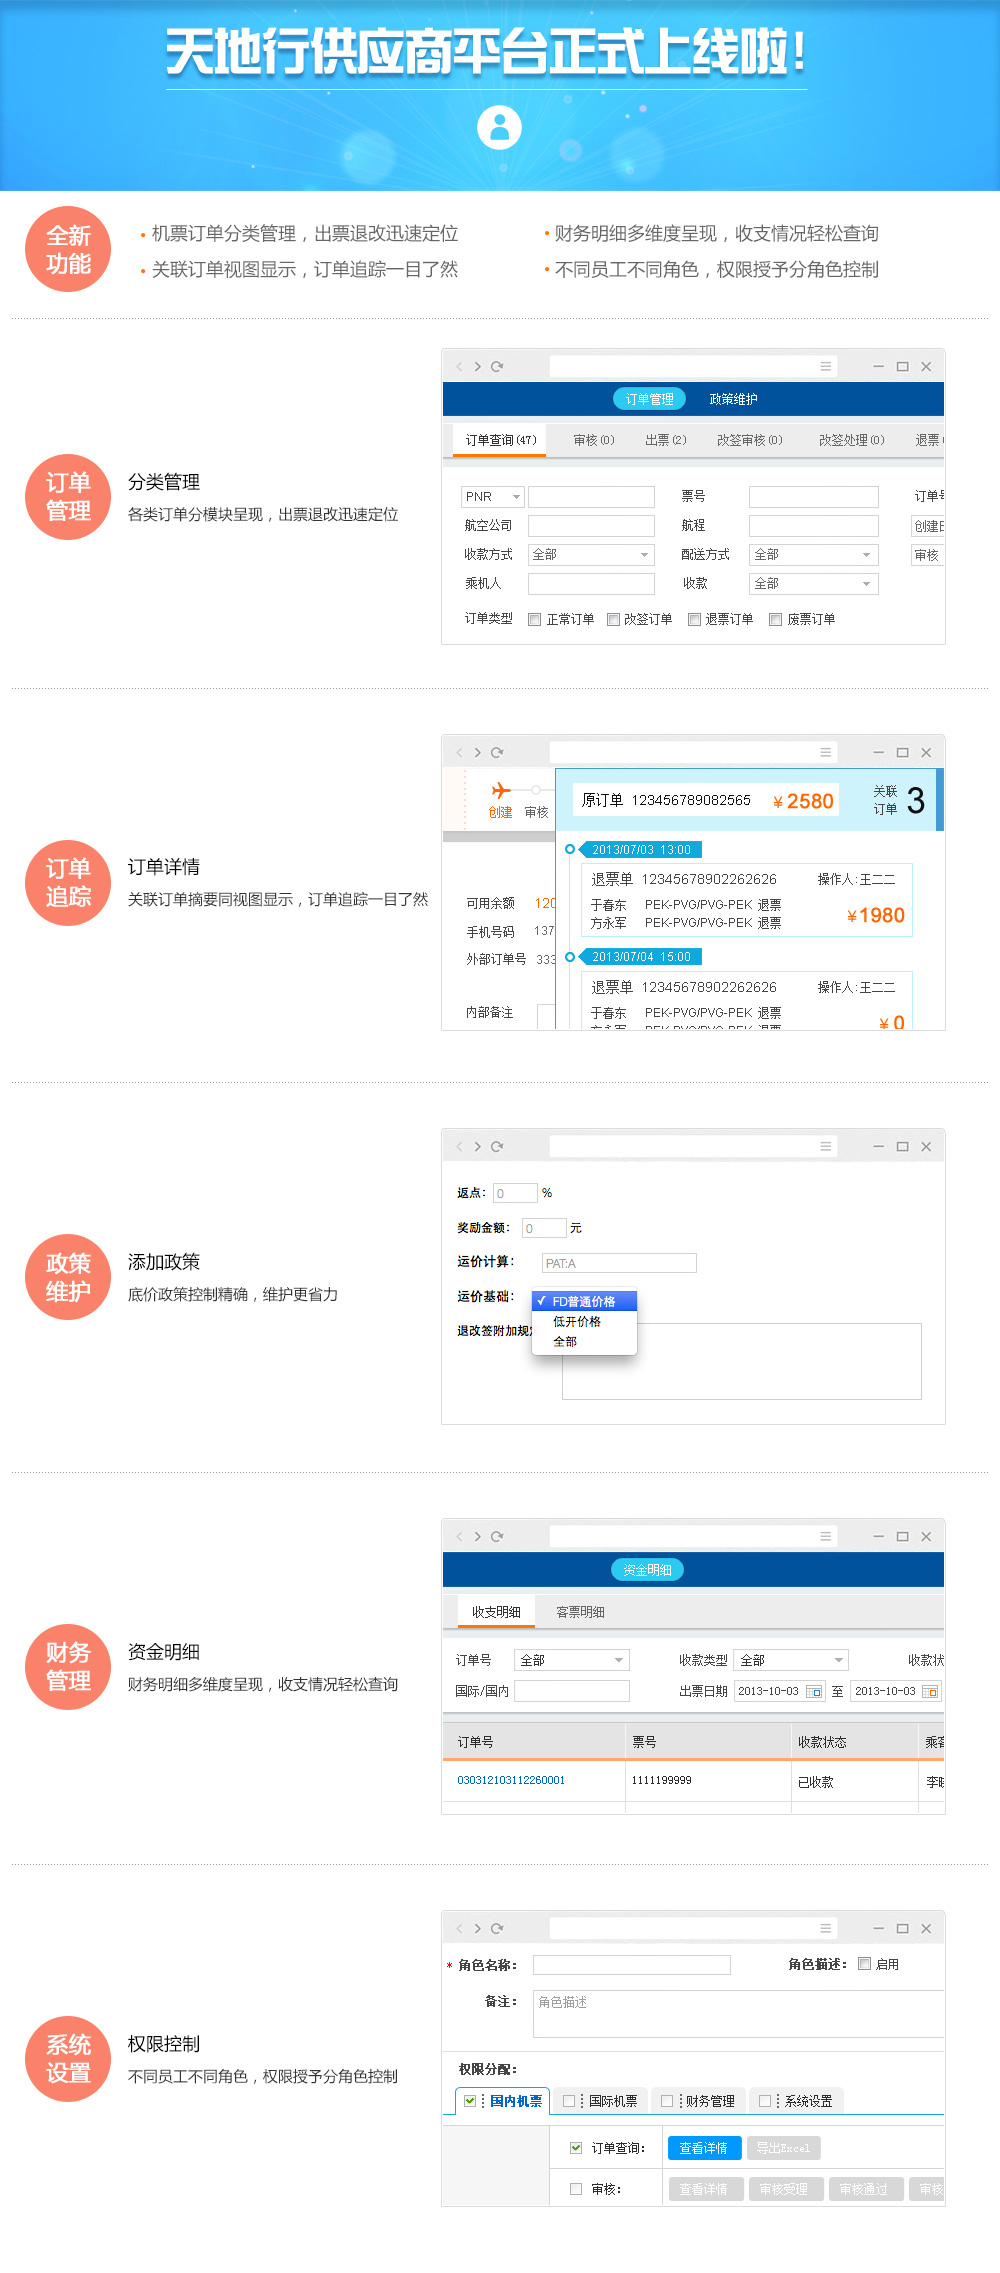
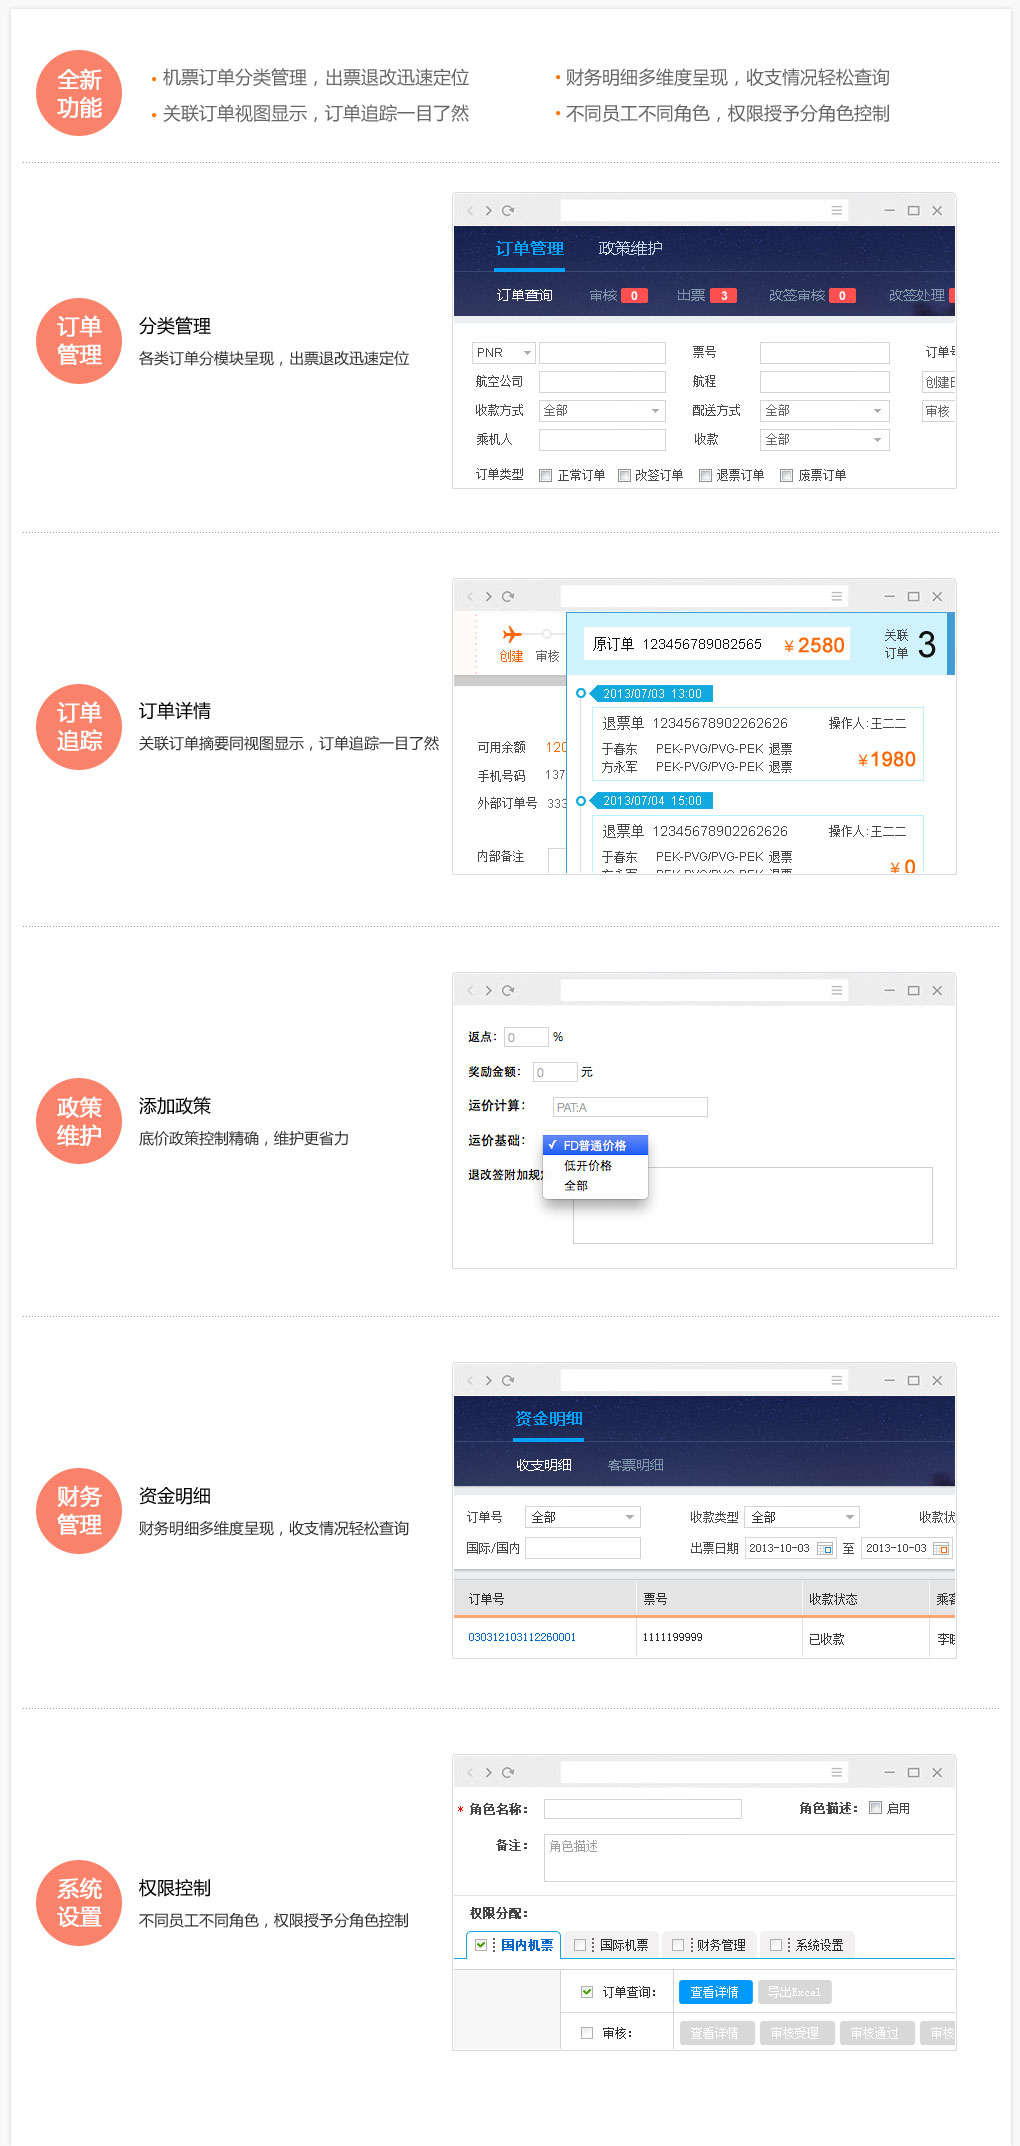
修改供应商欢迎页

diff --git a/供应商/欢迎页.html b/供应商/欢迎页.html
@@ -8,6 +8,10 @@
 	<link href="../static/css/kendo.gray.css" rel="stylesheet" />
 	<link href="../static/css/supplier.css" rel="stylesheet" />
     <link href="../static/css/kendo.reset.css" rel="stylesheet" />
+
+    <link rel="stylesheet" type="text/css" href="../static/css/supplier_common.css">
+    <link rel="stylesheet" type="text/css" href="../static/css/supplierTravel.css">
+
     <script type="text/javascript" src="../static/js/jquery.min.js"></script>
     <script type="text/javascript" src="../static/js/kendo.web.js"></script>
     <script type="text/javascript" src="../static/js/header.js"></script>
@@ -20,123 +24,44 @@
 <!-- @CLB@ -->
 </head>
 <body>
-    <div id="extHeader">
-        <div></div>
+    <div class="bg-header-repeat">
+        <div class="bg-header-top"></div>
+        <div class="main-header"></div>
     </div>
 
-    <div id="container">
-        <div class="header clearfix">
-            <h1></h1>
-            <div class="profile">
-                <span>你好,${name}</span>
-                <a href="javascript:void(0);">退出</a>
+    <div id="container" class="new-container">
+        <div class="header-top-center">
+            <div class="head-left">
+                <div class="supplier-logo"></div>
             </div>
-            <ul id="top_menu">
-                <li class="current">
-                    <a href="javascript:void(0);">国内机票</a>
-                    <ol class="sub_menu gnjp" style="display:block;">
-                        <li><a href="javascript:void(0);">平台建单</a></li>
-                        <li><a href="javascript:void(0);">订单管理</a></li>
-                        <li><a href="javascript:void(0);">政策维护</a></li>
-                        <li><a href="javascript:void(0);">售价维护</a></li>
-                        <li><a href="javascript:void(0);">数据报表</a></li>
-                    </ol>
+            <ul class="first-navi">
+                <li class="first-navi-li"><a href="javascript:void(0);">国内机票</a></li>
+                <li class="first-navi-li"><a href="javascript:void(0);">国际机票</a></li>
+                <li class="first-navi-li" style="width:80px;"><a href="javascript:void(0);">旅游</a>
                 </li>
-                <li>
-                    <a href="javascript:void(0);">国际机票</a>
-                    <ol class="sub_menu gjjp">
-                        <li><a href="javascript:void(0);">平台建单</a></li>
-                        <li><a href="javascript:void(0);">订单管理</a></li>
-                        <li><a href="javascript:void(0);">政策维护</a></li>
-                        <li><a href="javascript:void(0);">售价维护</a></li>
-                        <li><a href="javascript:void(0);">数据报表</a></li>
-                    </ol>
-                </li>
-                <!--
-                <li>
-                    <a href="javascript:void(0);">酒店</a>
-                    <ol class="sub_menu jd">
-                        <li><a href="javascript:void(0);">查询预订</a></li>
-                        <li><a href="javascript:void(0);">订单管理</a></li>
-                        <li><a href="javascript:void(0);">酒店维护</a></li>
-                        <li><a href="javascript:void(0);">售价维护</a></li>
-                        <li><a href="javascript:void(0);">数据报表</a></li>
-                    </ol>
-                </li>
-                -->
-                <li>
-                    <a href="javascript:void(0);">财务管理</a>
-                    <ol class="sub_menu caiwu">
-                        <li><a href="javascript:void(0);">财务管理</a></li>
-                        <li><a href="javascript:void(0);">收银管理</a></li>
-                        <li><a href="javascript:void(0);">对账管理</a></li>
-                        <li><a href="javascript:void(0);">财务报表</a></li>
-                    </ol>
-                </li>
-                <li>
-                    <a href="javascript:void(0);">系统设置</a>
-                    <ol class="sub_menu system">
-                        <li><a href="javascript:void(0);">公告管理</a></li>
-                        <li><a href="javascript:void(0);">公司信息</a></li>
-                        <li><a href="javascript:void(0);">组织架构</a></li>
-                        <li><a href="javascript:void(0);">角色维护</a></li>
-                        <li><a href="javascript:void(0);">基础数据</a></li>
-                    </ol>
-                </li>
-                <div class="clear"></div>
+                <li class="first-navi-li"><a href="javascript:void(0);">财务管理</a></li>
             </ul>
-            
-            <div id="message">
-                <h3>
-                    <span>&nbsp;</span>
-                    <!--<a href="javascript:void(0);">消息</a>-->
-                    <em>10</em>
-                </h3>
-                <div id="message_pop">
-                    <div class="pop_head"></div>
-                    <div class="mesbox">
-                       <div class="switchover clearfix">
-                            <ul class="mesAndnotice">
-                                <li class="current_stateli"><a href="javascript:void(0);">消息</a></li>
-                                <li class="notice_li"><a href="javascript:void(0);">公告</a><em>&nbsp;</em></li>
-                            </ul>
-                            <div class="ck"><a href="javascript:void(0);">关闭</a></div>
-                        </div>
-                        <div class="mes_switchover">
-                                <ul class="show_content mes">
-                                    <li><a href="javascript:void(0);">[ 国际机票 ] 订单 <span>[ 1123432211111 ]</span> 出票退回，[ 退票原因 ]，请尽快处理</a></li>
-                                    <li><a href="javascript:void(0);">[ 国际机票 ] 订单 <span>[ 1123432211111 ]</span> 出票退回，[ 退票原因 ]，请尽快处理</a></li>
-                                    <li><a href="javascript:void(0);">[ 国际机票 ] 订单 <span>[ 1123432211111 ]</span> 出票退回，[ 退票原因 ]，请尽快处理</a></li>
-                                    <li class="last"><a href="javascript:void(0);">[ 国际机票 ] 订单 <span>[ 1123432211111 ]</span> 出票退回，[ 退票原因 ]，请尽快处理</a></li>
-                                    <!--<li>暂无最新消息!</li>-->
-                                </ul>
-                                <ul class="notice_content mes" style="display:none;">
-                                    <li><a href="javascript:void(0);"><i>&nbsp;</i><b>[ 国内机票 ] 新系统上线</b></a><em>2013-12-06</em></li>
-                                    <li><a href="javascript:void(0);">[ 国际机票 ] 新系统上线</a><em>2013-12-06</em></li>
-                                    <li><a href="javascript:void(0);">[ 酒店 ] 新系统上线 新系统上线新系统上线新系统上线新系统上线新系统</a><em>2013-12-06</em></li><!--
-                                    <li><a href="javascript:void(0);">新系统上线</a><em>2013-12-06</em></li>
-                                    <li><a href="javascript:void(0);">[ 客户管理 ] 功能修改国际机票新系统上线</a><em>2013-12-06</em></li>
-                                    <li><a href="javascript:void(0);">[ 酒店 ] 新系统上线</a><em>2013-12-06</em></li>-->
-                                    <li class="last"><a href="javascript:void(0);">新系统上线</a><em>2013-12-06</em></li>
-                                </ul>
-                        </div>
-                        <div class="see_all clearfix"><a href="javascript:void(0);">查看全部</a></div>
-                    </div>
-                    <div class="pop_tail"></div>
-                </div>
-            </div>
-        </div> 
-            
-        <div id="sub_menu_bar"></div>
-        <div id="mainContent">
-            <div class="supplier_welcome_block">
-                <div class="supplier_user">你好，魏琦</div>
-            </div>
-
+            <div class="head-right">
+                <ul class="feature">
+                    <li class="notice-icon-active"></li>
+                    <li class="split-line"></li>
+                    <li class="person-info">
+                        <span class="person-icon"></span>
+                        <span class="person-name" title="zhaoshuaigeng12312321">zhaoshuaigeng12312321</span>
+                        <a class="logout" href="javascript:void(0);">退出</a>
+                    </li>
+                    <li class="user-setting">设置</li>
+                </ul>
+            </div>            
         </div>
-
+        <div class="clear"></div>
+        <div id="sub_menu_bar"></div>
+        <div id="mainContent" class="welcome-mainContent">
+            <div class="supplier_user"><i></i>Hello, World!</div>
+            <div class="supplier_welcome_block">               
+            </div>
+        </div>
     </div>
-		
     <div id="extFooter">
         <div>
             <p>

diff --git a/static/css/supplier.css b/static/css/supplier.css
@@ -548,7 +548,7 @@ table.cv-fixed input[type=text],table.cv-fixed textarea{
     padding-top:10px;
     margin-bottom:40px;
 }
-body {background-color: #EAEEF0;min-width:980px;}
+body {background-color: #f9f9f9;min-width:980px;}
 a {text-decoration:none; color:#606060;}
 input[type=text],input[type=password],.cm_txt {border:1px solid #cfcfcf;height:20px;line-height:20px\9;}
 textarea{border:1px solid #cfcfcf;}
@@ -1488,18 +1488,35 @@ input[type=checkbox] {vertical-align:middle;}
     color: #0065CB;
 }
 /*供应商 欢迎页*/
+.welcome-mainContent {
+    width: 980px;
+    position: relative;
+    top: 100px;
+    margin-bottom: 0!important;
+}
+
 .supplier_welcome_block {
     position: relative;
-    height: 2273px;
-    background: #fff url(../images/supplier_welcome.jpg) no-repeat;
+    height: 2146px;
+    background: #f9f9f9 url(../images/supplier_welcome.jpg) no-repeat;
 }
 .supplier_user {
     color: #fff;
     position: absolute;
-    left: 450px;
-    top: 158px;
-    font: 20px 'Microsoft Yahei',sans-serif;
+    left: 425px;
+    top: -65px;
+    font: 25px 'Microsoft Yahei',sans-serif;
 }
+.supplier_user i{
+    display: inline-block;
+    background: url(../images/supplier/supplier_user_icon.png) no-repeat 0 0;
+    width: 35px;
+    height: 35px;
+    position: relative;
+    top: 8px;
+    right: 15px;
+}
+
 
 /* 通用button*/
 .supplierButton{display:inline-block;vertical-align:middle; cursor:pointer;}

diff --git a/供应商/旅游/线路管理/线路管理.html b/供应商/旅游/线路管理/线路管理.html
@@ -87,7 +87,7 @@
                         <li class="second-navi-li"><a href="javascript:void(0);"><span style="font-size:14px;">OFFICE</span>管理</a>
                             <div class="navi-slide-hover"></div>
                         </li>
-                    </ul>
+                    </ol>
                 </li>
             </ul>
             <div class="head-right">
@@ -452,6 +452,7 @@
               </span>
          </div>
     </div>
+</div>
 
     <div id="extFooter">
         <div>

diff --git a/static/css/supplier_common.css b/static/css/supplier_common.css
@@ -21,7 +21,7 @@
 .bg-header-top {
 	width: 100%;
 	height: 50px;
-	background-color: #f6f6f6;
+	background-color: #f9f9f9;
 	float: left;
 }
 
